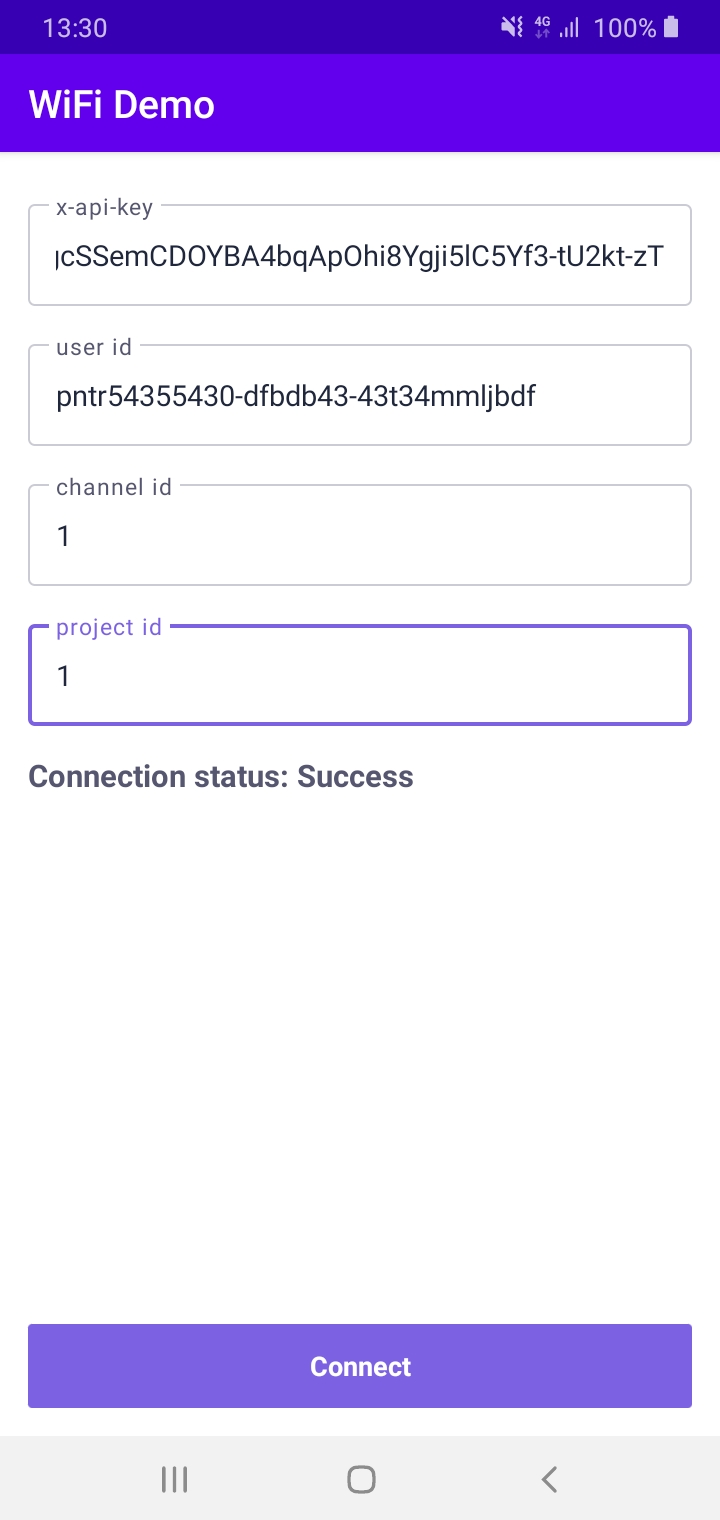
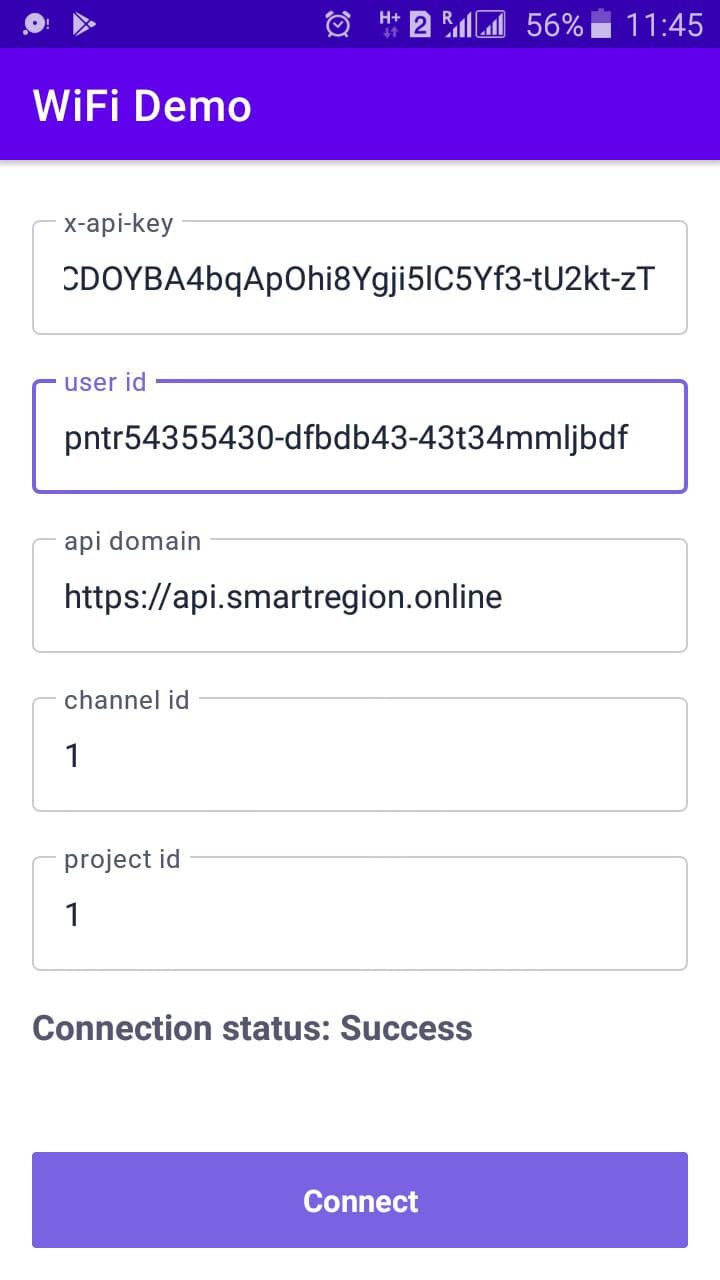
readme demo

diff --git a/demo/README.md b/demo/README.md
@@ -54,12 +54,14 @@ private var wifi: WifiSession? = null
     private fun createSession(){
         val apiKey: String = "YOUR_API_KEY"
         val userId: String = "USER_ID"
+        val apiDomain: String = "API_DOMAIN" //identifier for domain name server of the API SmartWiFi
         val channelId: Int = 1 //your channel id
         val projectId: Int = 1 //your project id
 
         wifi = WifiSession.Builder(context = this)
             .apiKey(apiKey)
             .userId(userId)
+            .apiDomain(apiDomain)
             .channelId(channelId)
             .projectId(projectId)
             .statusCallback(object : WifiSessionCallback {
